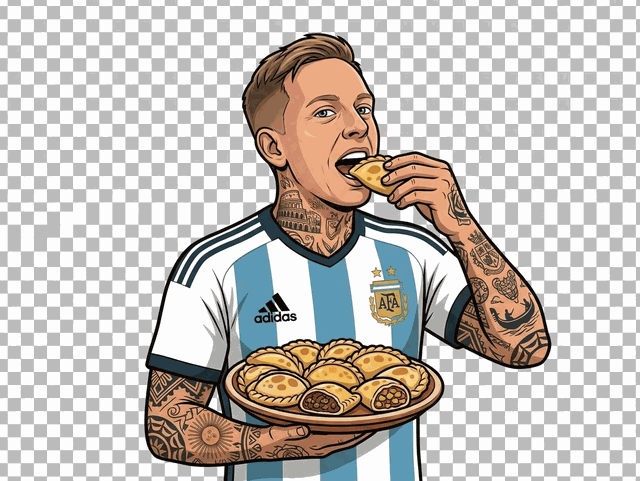
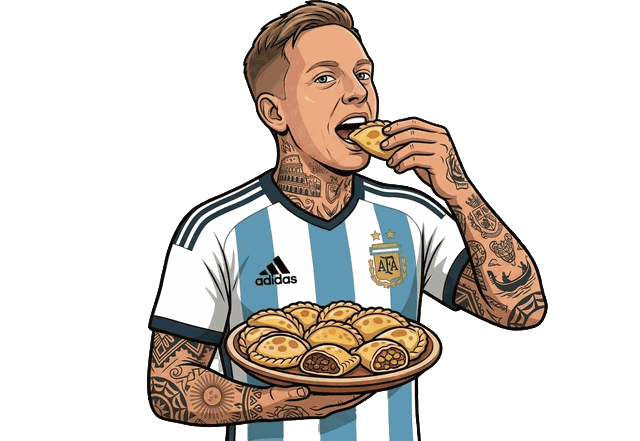
v240: Kaputte Argentinien-Bilder freigestellt, Namensbox-Abstand, Positionen
- Sinón Martín (ar-1) und Lucas Spósito (ar-2): beide Bilder waren nie
  durch die Freistell-Pipeline gelaufen und zeigten im Spiel noch das
  komplette Karo-Muster als Hintergrund. Aus den Original-Fotos neu
  freigestellt; beide sind breiter als die Karte (verschränkte Arme
  bzw. Teller in der Hand) und bekommen daher wie ar-3/ar-5 eine
  Höhenreduktion statt horizontalem Versatz.
- Luka Shasore (ng-4): durch das neu gelieferte Foto ersetzt (anderes
  Trikot-Design), neu freigestellt und zentriert.
- Nadir Mouchel (fr-1), Luc Épissot (fr-4) und Nicolas Trollet (fr-5)
  waren nicht mittig - neu vermessen und Versatz ergänzt.
- Nachname-Zeile auf allen Karten etwas weiter nach unten (margin-top
  auf .fa-nachname), behebt auch den zu engen Abstand bei "ÉPISSOT",
  wo der Akzent auf dem É in die Vorname-Zeile hineinragte.

Wie gewohnt alle Positionswerte per Playwright-Nachbau der echten
Karte (richtiges Nationalfarbschema, Statistik-Bereich) vermessen.

Alle 6 Versionsstellen auf v240 angehoben.

Claude-Session: https://claude.ai/code/session_01Bq3j1UmgmmQRjdUKFtX7an

diff --git a/sw.js b/sw.js
@@ -4,7 +4,7 @@
 // Nur dann wirft der Browser den alten Zwischenspeicher weg und alle Spieler
 // bekommen zuverlässig die neue Version. Das ist der einzige Handgriff, den man
 // nach dem Bearbeiten von Dateien nicht vergessen darf.
-const CACHE_NAME = "trollhouse-v239";
+const CACHE_NAME = "trollhouse-v240";
 
 const DATEIEN = [
   "./",
@@ -47,31 +47,31 @@ const DATEIEN = [
   "spiele/fussball-auktion/logik.js",
   "spiele/fussball-auktion/design.js",
   "spiele/fussball-auktion/karten.json",
-  "bilder/fussball-auktion/spieler-it-1.png?v=239",
-  "bilder/fussball-auktion/spieler-it-2.png?v=239",
-  "bilder/fussball-auktion/spieler-it-3.png?v=239",
-  "bilder/fussball-auktion/spieler-it-4.png?v=239",
-  "bilder/fussball-auktion/spieler-it-5.png?v=239",
-  "bilder/fussball-auktion/spieler-jp-1.png?v=239",
-  "bilder/fussball-auktion/spieler-jp-2.png?v=239",
-  "bilder/fussball-auktion/spieler-jp-3.png?v=239",
-  "bilder/fussball-auktion/spieler-jp-4.png?v=239",
-  "bilder/fussball-auktion/spieler-jp-5.png?v=239",
-  "bilder/fussball-auktion/spieler-ar-1.png?v=239",
-  "bilder/fussball-auktion/spieler-ar-2.png?v=239",
-  "bilder/fussball-auktion/spieler-ar-3.png?v=239",
-  "bilder/fussball-auktion/spieler-ar-4.png?v=239",
-  "bilder/fussball-auktion/spieler-ar-5.png?v=239",
-  "bilder/fussball-auktion/spieler-fr-1.png?v=239",
-  "bilder/fussball-auktion/spieler-fr-2.png?v=239",
-  "bilder/fussball-auktion/spieler-fr-3.png?v=239",
-  "bilder/fussball-auktion/spieler-fr-4.png?v=239",
-  "bilder/fussball-auktion/spieler-fr-5.png?v=239",
-  "bilder/fussball-auktion/spieler-ng-1.png?v=239",
-  "bilder/fussball-auktion/spieler-ng-2.png?v=239",
-  "bilder/fussball-auktion/spieler-ng-3.png?v=239",
-  "bilder/fussball-auktion/spieler-ng-4.png?v=239",
-  "bilder/fussball-auktion/spieler-ng-5.png?v=239",
+  "bilder/fussball-auktion/spieler-it-1.png?v=240",
+  "bilder/fussball-auktion/spieler-it-2.png?v=240",
+  "bilder/fussball-auktion/spieler-it-3.png?v=240",
+  "bilder/fussball-auktion/spieler-it-4.png?v=240",
+  "bilder/fussball-auktion/spieler-it-5.png?v=240",
+  "bilder/fussball-auktion/spieler-jp-1.png?v=240",
+  "bilder/fussball-auktion/spieler-jp-2.png?v=240",
+  "bilder/fussball-auktion/spieler-jp-3.png?v=240",
+  "bilder/fussball-auktion/spieler-jp-4.png?v=240",
+  "bilder/fussball-auktion/spieler-jp-5.png?v=240",
+  "bilder/fussball-auktion/spieler-ar-1.png?v=240",
+  "bilder/fussball-auktion/spieler-ar-2.png?v=240",
+  "bilder/fussball-auktion/spieler-ar-3.png?v=240",
+  "bilder/fussball-auktion/spieler-ar-4.png?v=240",
+  "bilder/fussball-auktion/spieler-ar-5.png?v=240",
+  "bilder/fussball-auktion/spieler-fr-1.png?v=240",
+  "bilder/fussball-auktion/spieler-fr-2.png?v=240",
+  "bilder/fussball-auktion/spieler-fr-3.png?v=240",
+  "bilder/fussball-auktion/spieler-fr-4.png?v=240",
+  "bilder/fussball-auktion/spieler-fr-5.png?v=240",
+  "bilder/fussball-auktion/spieler-ng-1.png?v=240",
+  "bilder/fussball-auktion/spieler-ng-2.png?v=240",
+  "bilder/fussball-auktion/spieler-ng-3.png?v=240",
+  "bilder/fussball-auktion/spieler-ng-4.png?v=240",
+  "bilder/fussball-auktion/spieler-ng-5.png?v=240",
   "spiele/doppelblick/spiel.js",
   "spiele/blitzquiz/spiel.js",
   "spiele/blitzquiz/fragen.json",

diff --git a/index.html b/index.html
@@ -18,7 +18,7 @@
   <link rel="preconnect" href="https://fonts.googleapis.com">
   <link rel="preconnect" href="https://fonts.gstatic.com" crossorigin>
   <link href="https://fonts.googleapis.com/css2?family=Barlow+Condensed:ital,wght@0,800;1,800&family=Bungee&display=swap" rel="stylesheet">
-  <link rel="stylesheet" href="stil.css?v=239">
+  <link rel="stylesheet" href="stil.css?v=240">
 </head>
 <body>
 
@@ -39,7 +39,7 @@
   <div id="start-screen" class="bildschirm-karte">
     <div class="start-hero">
       <div class="start-icon">
-        <img src="bilder/logo-fuchs-transparent.png?v=239" width="102" height="102" alt="" class="app-icon">
+        <img src="bilder/logo-fuchs-transparent.png?v=240" width="102" height="102" alt="" class="app-icon">
       </div>
       <h1>Trollhouse</h1>
       <p class="start-tagline">Ein Raum, ein Abend, viele Spiele</p>
@@ -192,11 +192,11 @@
   <div id="lobby-screen" class="bildschirm-karte" hidden>
     <div class="lobby-kopf">
       <div class="lobby-marke">
-        <span class="lobby-logo-badge"><img src="bilder/logo-fuchs-transparent.png?v=239" width="36" height="36" alt="" class="lobby-app-icon"></span>
+        <span class="lobby-logo-badge"><img src="bilder/logo-fuchs-transparent.png?v=240" width="36" height="36" alt="" class="lobby-app-icon"></span>
         <h1>Trollhouse</h1>
       </div>
       <button id="btn-lobby-verlassen" class="lobby-verlassen" type="button">
-        <img src="bilder/icon-raum-verlassen.svg?v=239" width="32" height="32" alt="">
+        <img src="bilder/icon-raum-verlassen.svg?v=240" width="32" height="32" alt="">
         <span class="nur-screenreader">Raum verlassen</span>
       </button>
     </div>
@@ -242,6 +242,6 @@
   <!-- ---------- Hierhin rendert das jeweils laufende Spiel ---------- -->
   <div id="spiel-wurzel"></div>
 
-  <script type="module" src="app.js?v=239"></script>
+  <script type="module" src="app.js?v=240"></script>
 </body>
 </html>

diff --git a/spiele/fussball-auktion/design.js b/spiele/fussball-auktion/design.js
@@ -166,8 +166,8 @@ export const PORTRAET_BILDER = {
   "jp-3": "bilder/fussball-auktion/spieler-jp-3.png?v=236",
   "jp-4": "bilder/fussball-auktion/spieler-jp-4.png?v=236",
   "jp-5": "bilder/fussball-auktion/spieler-jp-5.png?v=236",
-  "ar-1": "bilder/fussball-auktion/spieler-ar-1.png?v=236",
-  "ar-2": "bilder/fussball-auktion/spieler-ar-2.png?v=236",
+  "ar-1": "bilder/fussball-auktion/spieler-ar-1.png?v=240",
+  "ar-2": "bilder/fussball-auktion/spieler-ar-2.png?v=240",
   "ar-3": "bilder/fussball-auktion/spieler-ar-3.png?v=236",
   "ar-4": "bilder/fussball-auktion/spieler-ar-4.png?v=236",
   "ar-5": "bilder/fussball-auktion/spieler-ar-5.png?v=236",
@@ -179,7 +179,7 @@ export const PORTRAET_BILDER = {
   "ng-1": "bilder/fussball-auktion/spieler-ng-1.png?v=239",
   "ng-2": "bilder/fussball-auktion/spieler-ng-2.png?v=239",
   "ng-3": "bilder/fussball-auktion/spieler-ng-3.png?v=239",
-  "ng-4": "bilder/fussball-auktion/spieler-ng-4.png?v=239",
+  "ng-4": "bilder/fussball-auktion/spieler-ng-4.png?v=240",
   "ng-5": "bilder/fussball-auktion/spieler-ng-5.png?v=239"
 };
 
@@ -196,9 +196,11 @@ export const PORTRAET_VERSATZ = {
   "jp-3": 21,
   "jp-4": 19,
   "jp-5": 14,
-  "ar-1": -5,
+  "fr-1": 16,
   "fr-2": 12,
   "fr-3": 21,
+  "fr-4": 15,
+  "fr-5": 15,
   "ng-1": 18,
   "ng-3": 3,
   "ng-4": 16
@@ -215,6 +217,8 @@ export const PORTRAET_VERSATZ = {
 export const PORTRAET_GROESSE = {
   "jp-2": { hoehe: 56, unten: 21 },
   "jp-3": { hoehe: 68 },
+  "ar-1": { hoehe: 51, unten: 26 },
+  "ar-2": { hoehe: 51, unten: 26 },
   "ar-3": { hoehe: 54, unten: 23 },
   "ar-5": { hoehe: 54, unten: 21 },
   "it-3": { hoehe: 52, unten: 25 },

diff --git a/app.js b/app.js
@@ -13,9 +13,9 @@ import {
 // WICHTIG: bei jedem Versionssprung hier UND in spiele/register.js
 // (SPIEL_VERSION) mit hochzaehlen, sonst bekommen manche Geraete
 // Spiel-Fixes (spiele/<id>/spiel.js) verzoegert oder gar nicht mit.
-import { SPIELE, spielInfo } from "./spiele/register.js?v=239";
+import { SPIELE, spielInfo } from "./spiele/register.js?v=240";
 
-export const APP_VERSION = "v239";
+export const APP_VERSION = "v240";
 const appVersion = document.getElementById("app-version");
 appVersion.textContent = "Version " + APP_VERSION;
 

diff --git a/stil.css b/stil.css
@@ -2707,7 +2707,7 @@
   text-transform: uppercase; opacity: .85; text-shadow: 0 1px 4px rgba(0, 0, 0, .5);
 }
 .fa-nachname {
-  display: block; font-size: 9.2cqw; font-weight: 800; letter-spacing: .01em; text-transform: uppercase;
+  display: block; margin-top: 1.5cqw; font-size: 9.2cqw; font-weight: 800; letter-spacing: .01em; text-transform: uppercase;
   color: #fff; text-shadow: 0 1px 3px rgba(0, 0, 0, .6), 0 0 5px color-mix(in srgb, var(--n-akzent) 55%, transparent);
 }
 .fa-karte-rating {

diff --git a/spiele/register.js b/spiele/register.js
@@ -18,7 +18,7 @@
 // in der Olympiade trotz Fix in v201/v202 teils noch bestehen lassen.
 // WICHTIG: bei jedem Versionssprung hier UND in app.js (Import von
 // register.js) mit hochzaehlen.
-const SPIEL_VERSION = "239";
+const SPIEL_VERSION = "240";
 
 export const SPIELE = [
   {
